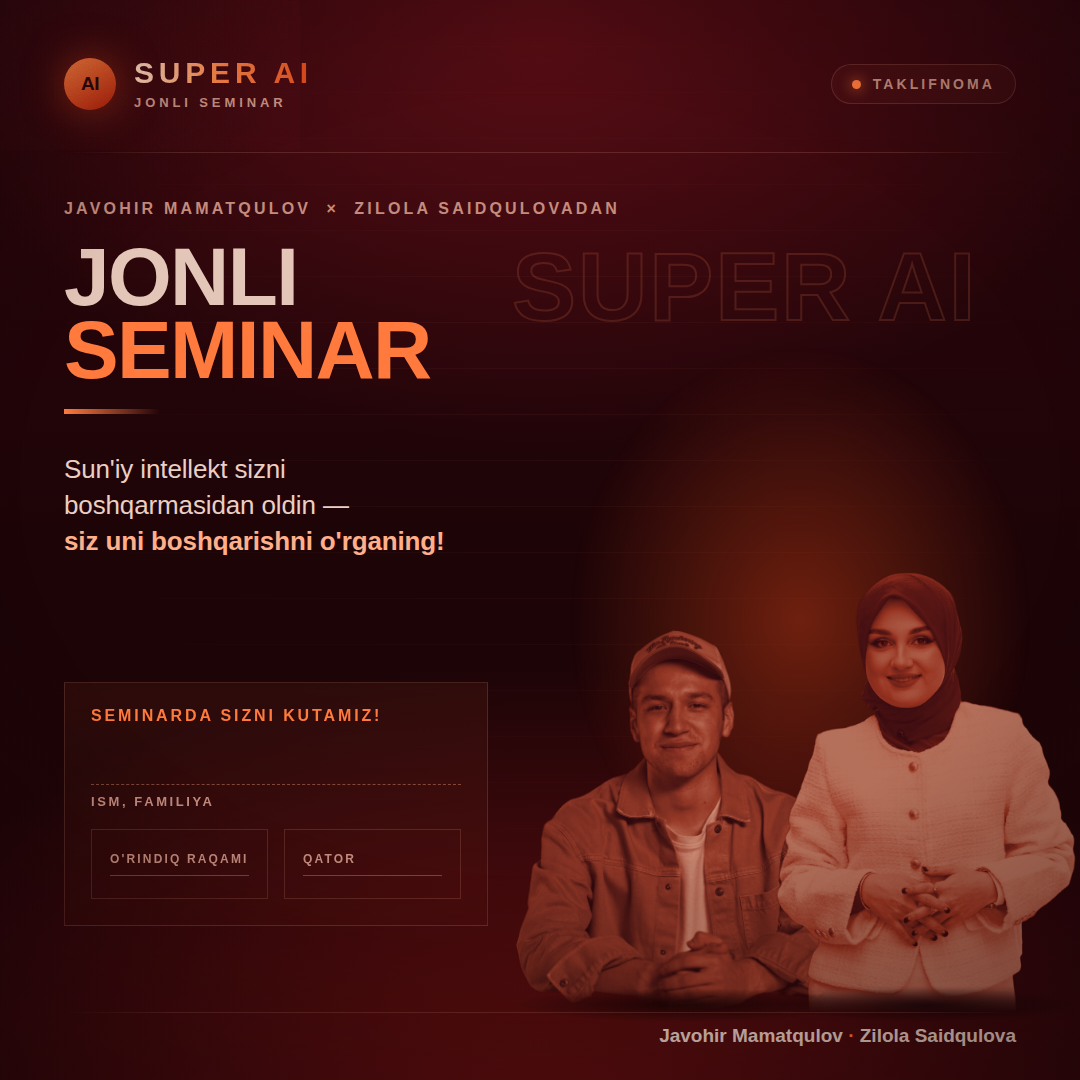
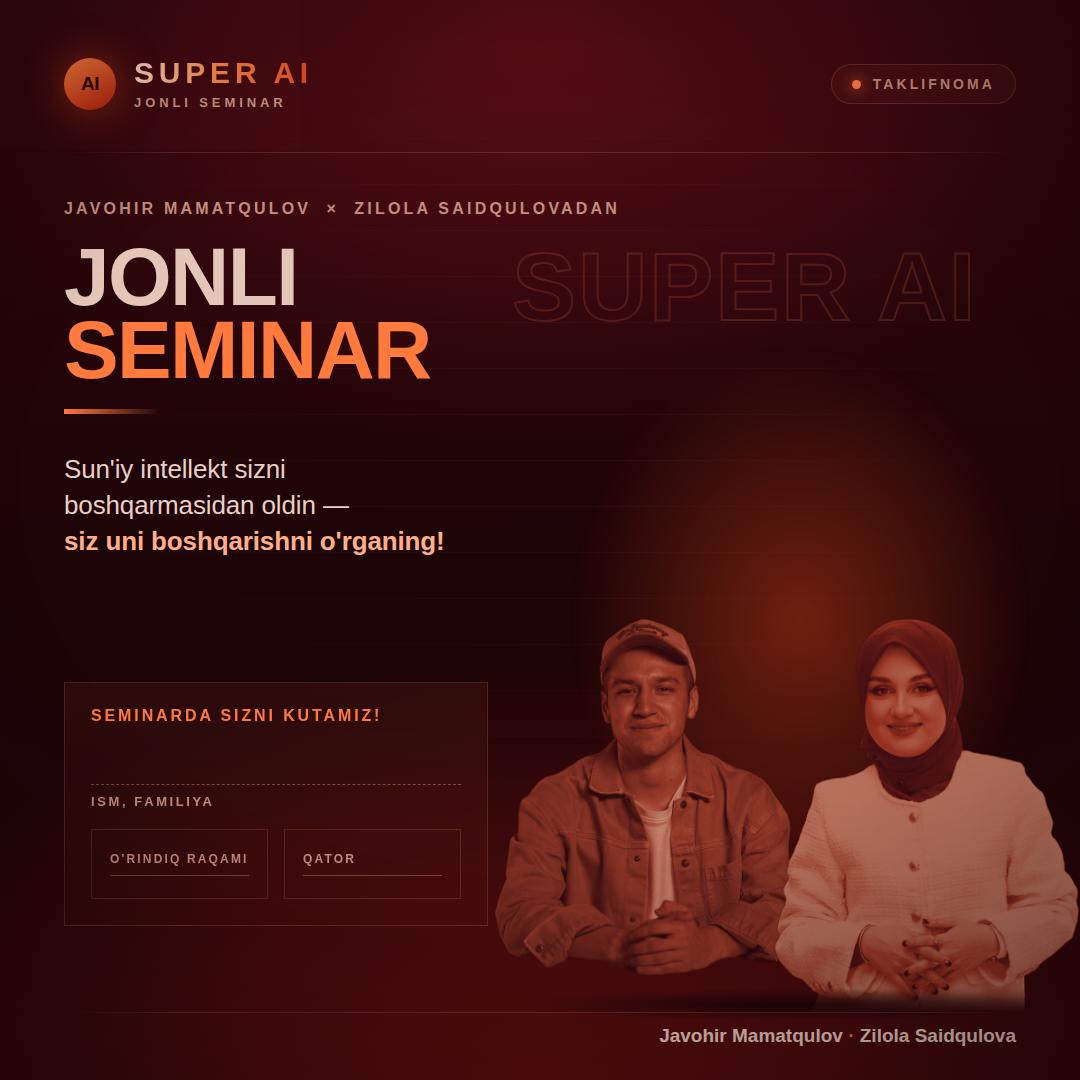
Match the two speakers: equal scale, level shoulders, tighter crop
The speakers were shot at different distances, so the man read much
closer than the woman. compose.py now measures head top and shoulder
line from each alpha mask, scales both to a common head unit, puts the
shoulders on one horizontal line, cuts the woman just below the waist
and packs the two figures together with a slight overlap, emitting a
single crew_pair.png that both layouts place.

Background stays dark burgundy.

Claude-Session: https://claude.ai/code/session_01XmpVVqv7AjPfvwcXTn9b5Q

Changed region(s): [[0.4583, 0.5194, 1.0, 0.9472]]

diff --git a/super-ai-seminar/design/story.html b/super-ai-seminar/design/story.html
@@ -28,13 +28,11 @@
   .ghost { font-size: 172px; left: 50%; transform: translateX(-50%); top: 596px;
            -webkit-text-stroke: 2px rgba(255, 138, 90, 0.15); }
 
-  .crew { left: 0; right: 0; top: 420px; height: 740px; }
-  .crew .a { height: 566px; left: 46px; }
-  .crew .b { height: 654px; left: 556px; }
-  .shadow { position: absolute; z-index: 1; height: 46px; bottom: -14px; border-radius: 50%;
-            background: radial-gradient(closest-side, rgba(10,1,3,0.75), rgba(10,1,3,0)); }
-  .shadow.s1 { left: 40px; width: 520px; }
-  .shadow.s2 { left: 545px; width: 460px; }
+  .crew { left: 0; right: 0; top: 420px; height: 738px; }
+  .crew .pair { width: 968px; left: 56px; }
+  .shadow { position: absolute; z-index: 1; height: 44px; bottom: -12px; border-radius: 50%;
+            left: 90px; width: 900px;
+            background: radial-gradient(closest-side, rgba(10,1,3,0.7), rgba(10,1,3,0)); }
   .floor { position: absolute; z-index: 3; left: 76px; right: 76px; top: 1158px; }
 
   .names { position: absolute; z-index: 4; left: 76px; right: 76px; top: 1196px;
@@ -89,10 +87,8 @@
   </div>
 
   <div class="crew">
-    <div class="shadow s1"></div>
-    <div class="shadow s2"></div>
-    <img class="a" src="assets/sp1_g.png" alt="Javohir Mamatqulov">
-    <img class="b" src="assets/sp2_g2.png" alt="Zilola Saidqulova">
+    <div class="shadow"></div>
+    <img class="pair" src="assets/crew_pair.png" alt="Javohir Mamatqulov va Zilola Saidqulova">
   </div>
 
   <div class="rule floor"></div>

diff --git a/super-ai-seminar/design/post.html b/super-ai-seminar/design/post.html
@@ -32,12 +32,10 @@
            -webkit-text-stroke: 2px rgba(255, 138, 90, 0.16); }
 
   .crew { left: 0; right: 0; top: 250px; height: 762px; }
-  .crew .a { height: 382px; left: 516px; }
-  .crew .b { height: 440px; left: 776px; }
-  .shadow { position: absolute; z-index: 1; height: 34px; bottom: -10px; border-radius: 50%;
+  .crew .pair { width: 586px; left: 494px; }
+  .shadow { position: absolute; z-index: 1; height: 32px; bottom: -9px; border-radius: 50%;
+            left: 512px; width: 548px;
             background: radial-gradient(closest-side, rgba(10,1,3,0.7), rgba(10,1,3,0)); }
-  .shadow.s1 { left: 510px; width: 350px; }
-  .shadow.s2 { left: 772px; width: 310px; }
   .floor { position: absolute; z-index: 3; left: 64px; right: 64px; top: 1012px; }
 
   .ticket { position: absolute; z-index: 4; left: 64px; width: 424px; top: 682px; padding: 24px 26px 26px; }
@@ -89,10 +87,8 @@
   </div>
 
   <div class="crew">
-    <div class="shadow s1"></div>
-    <div class="shadow s2"></div>
-    <img class="a" src="assets/sp1_g.png" alt="Javohir Mamatqulov">
-    <img class="b" src="assets/sp2_g2.png" alt="Zilola Saidqulova">
+    <div class="shadow"></div>
+    <img class="pair" src="assets/crew_pair.png" alt="Javohir Mamatqulov va Zilola Saidqulova">
   </div>
 
   <div class="rule floor"></div>

diff --git a/super-ai-seminar/design/compose.py b/super-ai-seminar/design/compose.py
@@ -1,0 +1,75 @@
+"""Ikkala spikerni bitta jamoa kadriga birlashtirish.
+
+- bosh o'lchamlari tenglashtiriladi (bir xil razmer)
+- yelkalar bir chiziqda turadi
+- ayol spiker belidan pastda kesiladi
+- ortiqcha bo'sh joy kesilib, ikkalasi bir-biriga yaqinlashtiriladi
+"""
+from PIL import Image
+import numpy as np
+from grade import apply_grade
+
+HEAD = 320          # bir "bosh" birligi, piksel
+GAP = -74           # figuralar orasidagi masofa (manfiy = yengil ustma-ust)
+WOMAN_CUT = 1060    # ayol spiker uchun bel chizig'i (asl piksel)
+
+
+def landmarks(im):
+    a = np.asarray(im.getchannel('A')) > 128
+    rows = a.sum(1)
+    nz = np.nonzero(rows)[0]
+    top, bot, mx = int(nz[0]), int(nz[-1]), int(rows.max())
+    shoulder = int(next(y for y in range(top, bot) if rows[y] >= 0.5 * mx))
+    return top, shoulder, bot
+
+
+def prepare(path, grade_kw, cut=None):
+    im = Image.open(path)
+    top, shoulder, bot = landmarks(im)
+    if cut:
+        im = im.crop((0, 0, im.width, cut))
+        bot = min(bot, cut - 1)
+    im = apply_grade(im, **grade_kw)
+
+    scale = HEAD / (shoulder - top)
+    w, h = round(im.width * scale), round(im.height * scale)
+    im = im.resize((w, h), Image.LANCZOS)
+    sh, tp, bt = shoulder * scale, top * scale, bot * scale
+
+    # gorizontal ortiqcha joyni kesish
+    bbox = im.getbbox()
+    im = im.crop((bbox[0], 0, bbox[2], im.height))
+    return im, sh - tp, bt - tp, tp
+
+
+def main():
+    man, man_sh, man_bot, man_tp = prepare(
+        'assets/sp1_cut.png',
+        dict(mix=0.85, contrast=1.16, brightness=0.96, high=(232, 182, 152)))
+    woman, wom_sh, wom_bot, wom_tp = prepare(
+        'assets/sp2_cut.png',
+        dict(mix=0.97, contrast=1.20, brightness=0.84, high=(196, 140, 116)),
+        cut=WOMAN_CUT)
+
+    # yuqoridagi bo'sh joyni kesib, boshdan boshlaymiz
+    man = man.crop((0, round(man_tp), man.width, man.height))
+    woman = woman.crop((0, round(wom_tp), woman.width, woman.height))
+
+    # yelkalarni bir chiziqqa qo'yish
+    shoulder_y = round(max(man_sh, wom_sh))
+    man_y = shoulder_y - round(man_sh)
+    wom_y = shoulder_y - round(wom_sh)
+
+    height = max(man_y + man.height, wom_y + woman.height)
+    width = man.width + woman.width + GAP
+    canvas = Image.new('RGBA', (width, height), (0, 0, 0, 0))
+    canvas.alpha_composite(man, (0, man_y))
+    canvas.alpha_composite(woman, (man.width + GAP, wom_y))
+    canvas = canvas.crop(canvas.getbbox())
+    canvas.save('assets/crew_pair.png')
+    print('crew_pair', canvas.size, 'shoulder_y', shoulder_y,
+          'man h', man.height, 'woman h', woman.height)
+
+
+if __name__ == '__main__':
+    main()

diff --git a/super-ai-seminar/design/grade.py b/super-ai-seminar/design/grade.py
@@ -1,14 +1,13 @@
-"""Ikkala spiker rasmini yagona (jamoa) uslubga keltirish: iliq burgundi-duoton grading."""
+"""Spiker rasmlarini yagona (jamoa) uslubga keltirish: iliq burgundi-duoton grading."""
 from PIL import Image, ImageEnhance, ImageFilter
 import numpy as np
 
 # duoton ramp: soya -> o'rta -> yorug'lik
 SHADOW = (52, 10, 16)
 MID = (150, 48, 30)
-HIGH = (245, 205, 176)
 
 
-def ramp_lut():
+def ramp_lut(high):
     lut = np.zeros((256, 3), dtype=np.float32)
     for i in range(256):
         t = i / 255.0
@@ -17,35 +16,26 @@ def ramp_lut():
             c = [SHADOW[j] + (MID[j] - SHADOW[j]) * k for j in range(3)]
         else:
             k = (t - 0.5) / 0.5
-            c = [MID[j] + (HIGH[j] - MID[j]) * k for j in range(3)]
+            c = [MID[j] + (high[j] - MID[j]) * k for j in range(3)]
         lut[i] = c
     return lut
 
 
-def grade(src, dst, mix=0.55, contrast=1.12, brightness=1.0, max_h=1600):
-    im = Image.open(src)
-    im = im.crop(im.getbbox())
-    if im.height > max_h:
-        im = im.resize((round(im.width * max_h / im.height), max_h), Image.LANCZOS)
+def apply_grade(im, mix, contrast, brightness, high, saturation=0.72):
+    """RGBA kesim -> gradinglangan RGBA (alfa kanali tozalangan)."""
     rgb = im.convert('RGB')
-    rgb = ImageEnhance.Color(rgb).enhance(0.72)
+    rgb = ImageEnhance.Color(rgb).enhance(saturation)
     rgb = ImageEnhance.Contrast(rgb).enhance(contrast)
     rgb = ImageEnhance.Brightness(rgb).enhance(brightness)
     a = np.asarray(rgb).astype(np.float32)
     lum = (0.299 * a[..., 0] + 0.587 * a[..., 1] + 0.114 * a[..., 2]).clip(0, 255).astype(np.uint8)
-    duo = ramp_lut()[lum]
+    duo = ramp_lut(high)[lum]
     out = (a * (1 - mix) + duo * mix).clip(0, 255).astype(np.uint8)
     res = Image.fromarray(out).convert('RGBA')
-    # alfa kanalini tozalash: fondagi juda past qiymatlar nol qilinadi (hoshiya yo'qoladi)
+
+    # fondagi juda past alfa qiymatlari nol qilinadi (to'rtburchak hoshiya yo'qoladi)
     al = np.asarray(im.getchannel('A')).astype(np.float32)
     lo, hi = 26.0, 232.0
     al = ((al - lo) * (255.0 / (hi - lo))).clip(0, 255)
-    alpha = Image.fromarray(al.astype(np.uint8)).filter(ImageFilter.GaussianBlur(0.6))
-    res.putalpha(alpha)
-    res = res.crop(res.getbbox())
-    res.save(dst)
-    print(dst, res.size)
-
-
-grade('assets/sp1_cut.png', 'assets/sp1_g.png', mix=0.55, contrast=1.10, brightness=1.02)
-grade('assets/sp2_cut.png', 'assets/sp2_g.png', mix=0.58, contrast=1.12, brightness=0.94)
+    res.putalpha(Image.fromarray(al.astype(np.uint8)).filter(ImageFilter.GaussianBlur(0.6)))
+    return res

diff --git a/super-ai-seminar/README.md b/super-ai-seminar/README.md
@@ -26,21 +26,27 @@ Ikkalasida ham taklifnoma maydonlari bor: **ism, familiya** uchun chiziq,
 
 ## Spikerlar rasmi
 
-Ikkala rasm bir-biriga moslashtirilgan, ya'ni bitta jamoa bo'lib ko'rinadi:
+Ikkala rasm bir-biriga moslashtirilib, bitta jamoa kadriga birlashtirilgan:
 
 1. Fon `rembg` (birefnet-portrait modeli) yordamida olib tashlangan →
    `design/assets/sp1_cut.png`, `sp2_cut.png`.
-2. `design/grade.py` ikkala kesimga bir xil iliq burgundi duoton grading beradi,
-   alfa kanalini tozalaydi va yorug'lik darajasini tenglashtiradi →
-   `sp1_g.png`, `sp2_g2.png`.
-3. Kompozitsiyada bosh o'lchamlari tenglashtirilib, ikkalasi bitta "pol"
-   chizig'iga qo'yilgan.
+2. `design/compose.py` alfa maskasidan bosh va yelka chiziqlarini o'lchaydi,
+   so'ng:
+   - bosh o'lchamlarini tenglashtiradi (ikkalasi bir xil razmerda),
+   - yelkalarni bitta gorizontal chiziqqa qo'yadi,
+   - ayol spikerni belidan pastda kesadi,
+   - ortiqcha bo'sh joyni kesib, ikkalasini bir-biriga yaqinlashtiradi
+     (yengil ustma-ust).
+3. `design/grade.py` ikkalasiga bir xil iliq burgundi duoton grading beradi va
+   alfa kanalini tozalaydi.
+
+Natija — bitta fayl: `design/assets/crew_pair.png`.
 
 ## Qayta render qilish
 
 ```bash
 cd design
-python3 grade.py                 # rasmlarni qayta gradinglash (ixtiyoriy)
+python3 compose.py               # spikerlar juftligini qayta yig'ish
 node shot.js                     # HTML → PNG (playwright kerak)
 ```
 
